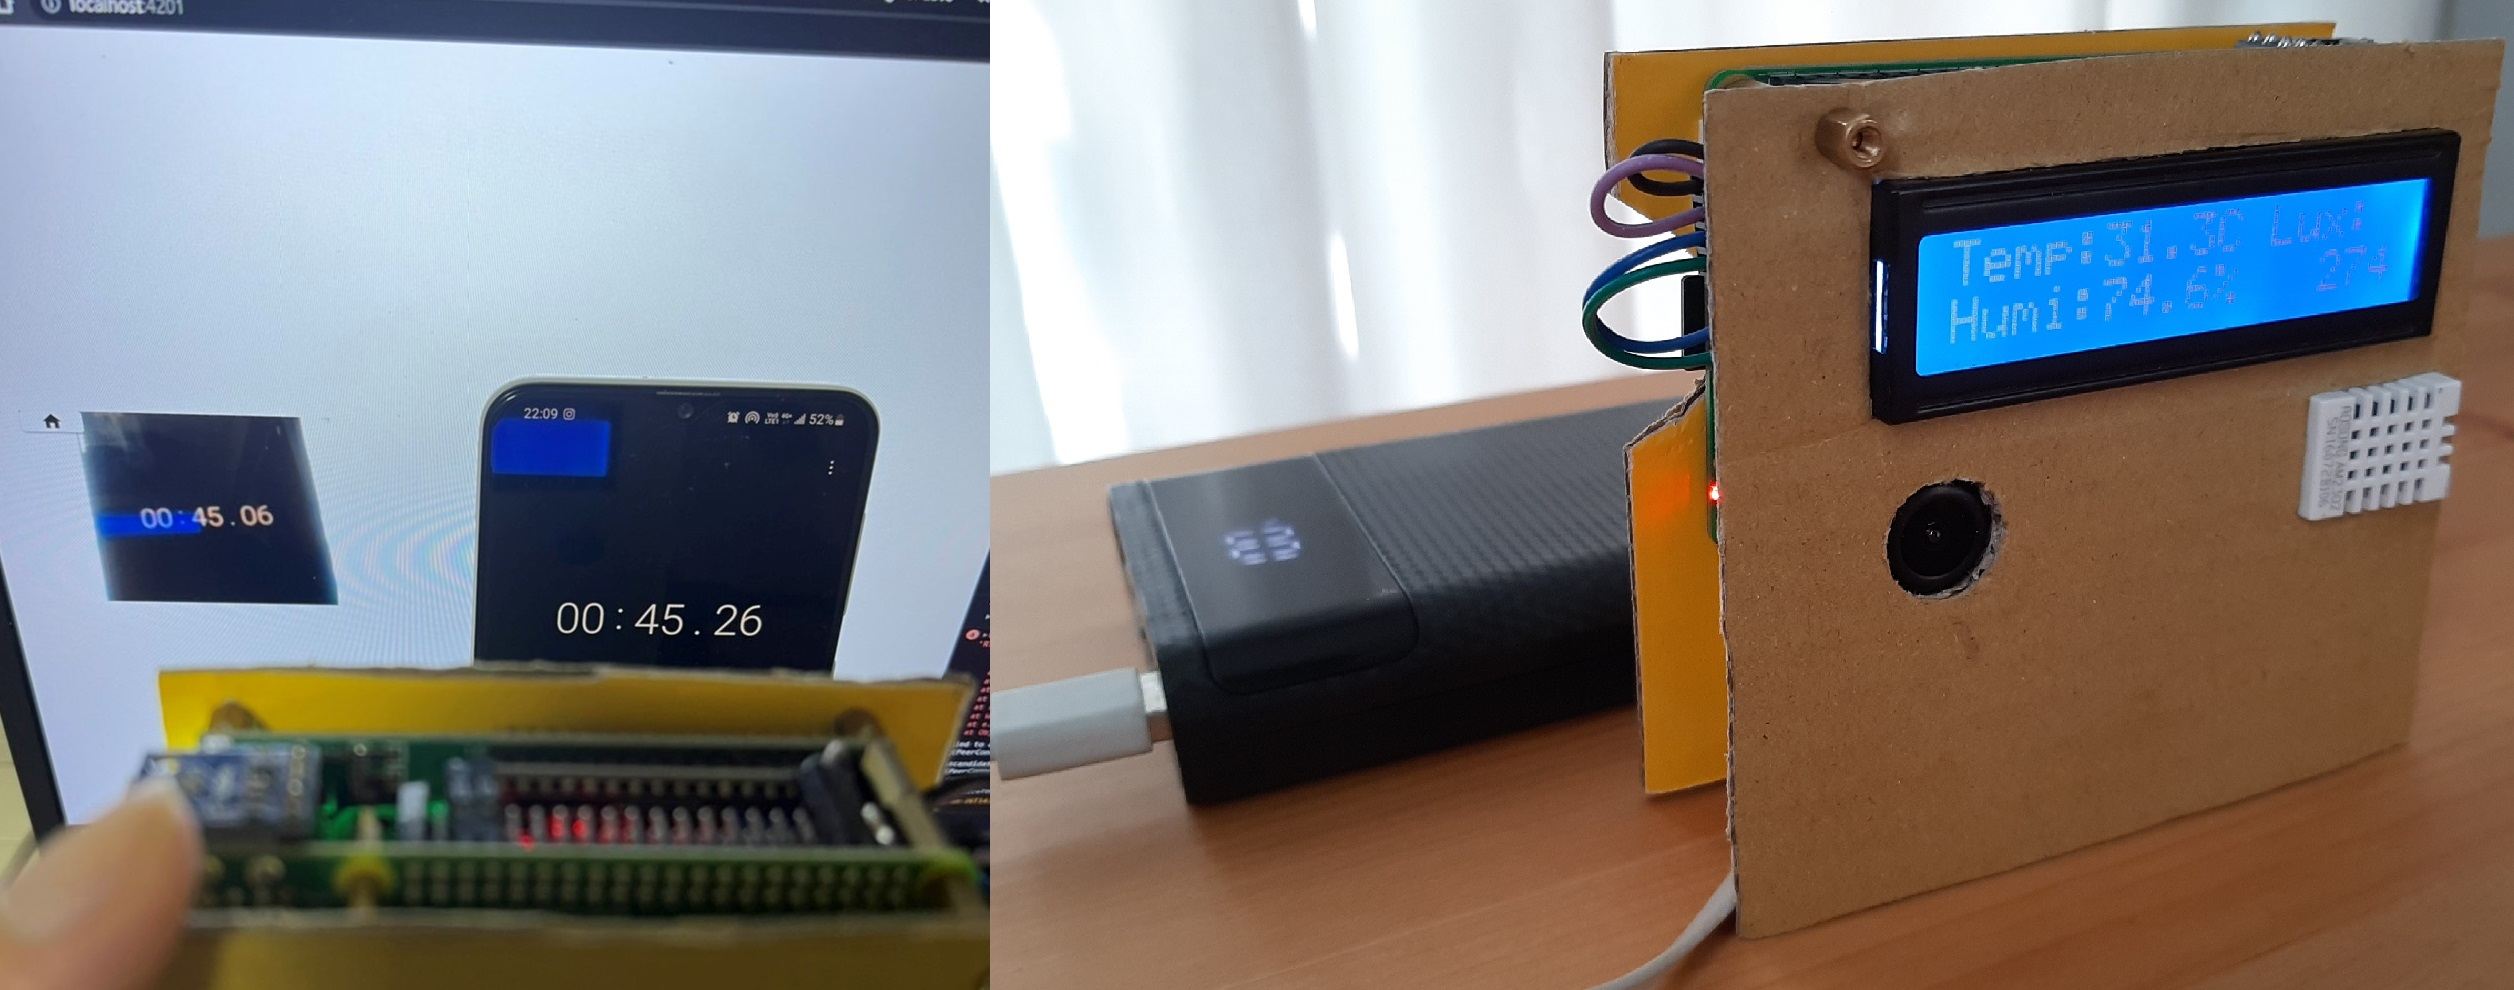
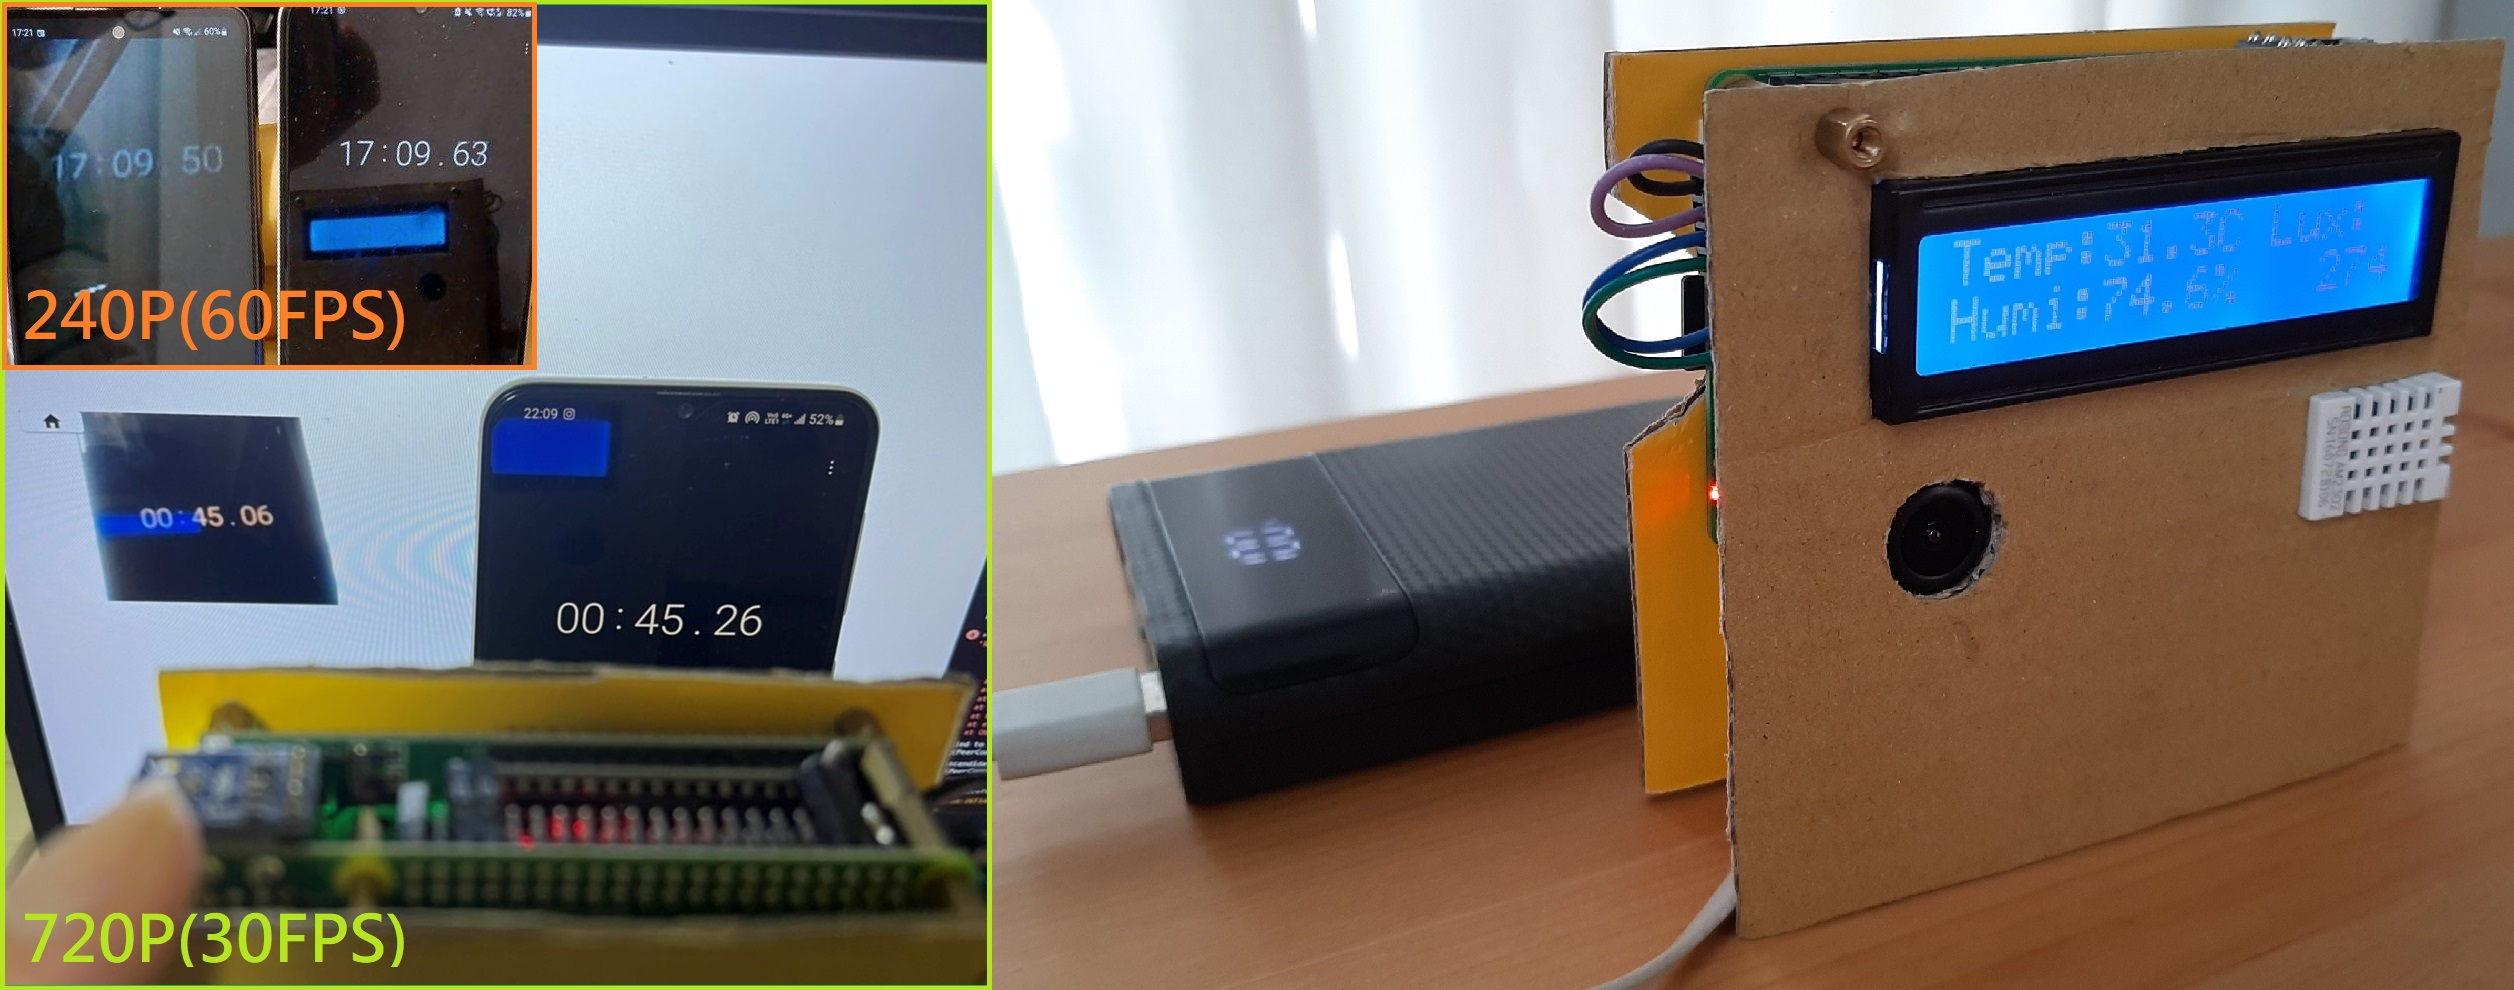
chore: update test summary

Changed region(s): [[0.0, 0.0, 0.4033, 0.3939], [0.0, 0.9091, 0.4033, 1.0]]

diff --git a/README.md b/README.md
@@ -2,14 +2,14 @@
 
 Step of using signalr as the webrtc signaling server
 
-1. build the native webrtc on Ubuntu 20.04 64bit
-2. build the SignalR-Client with boringssl
-3. create .net signalr server hub
-4. use signalr-client to exchange ice/sdp information with webrtc.lib.
-5. `ioctl` receive camera frames and send them via `AdaptedVideoTrackSource` in webrtc.lib 
+1. Build the native webrtc on Ubuntu 20.04 64bit
+2. Build the SignalR-Client with boringssl
+3. Create .net [signalr server hub](https://github.com/TzuHuanTai/FarmerAPI/blob/master/FarmerAPI/Hubs/SignalingServer.cs)
+4. Use signalr-client to exchange ice/sdp information with webrtc.lib.
+5. Receive camera frames via `ioctl` and send its to `AdaptedVideoTrackSource` in webrtc.lib 
 
 ## Environment
-* RaspberryPi 3B
+* RaspberryPi 3B + Raspberry Pi Camera v1.3
 * RaspberryPi OS 64bit
 * [clang 12+](https://github.com/llvm/llvm-project/releases)
 * `boringssl` replace `openssl`
@@ -18,6 +18,13 @@ Step of using signalr as the webrtc signaling server
 * Latency is about 0.2 seconds delay.
 * Temperatures up to 60~65°C.
 * CPU is ~60% at 1280x720 30fps.
+
+| Resolution | FPS | CPU  |  Latency  | Temperature |
+| :--------: | :-: | :--: | :-------: | :---------: |
+|  1280x720  |  30 | ~60% | 200~250ms |   60~65°C   |
+|   640x480  |  60 | ~60% | 190~220ms |             |
+|   320x240  |  60 | ~30% | 120~140ms |             |
+
 ![latency](./doc/latency.jpg)
 
 <hr>
